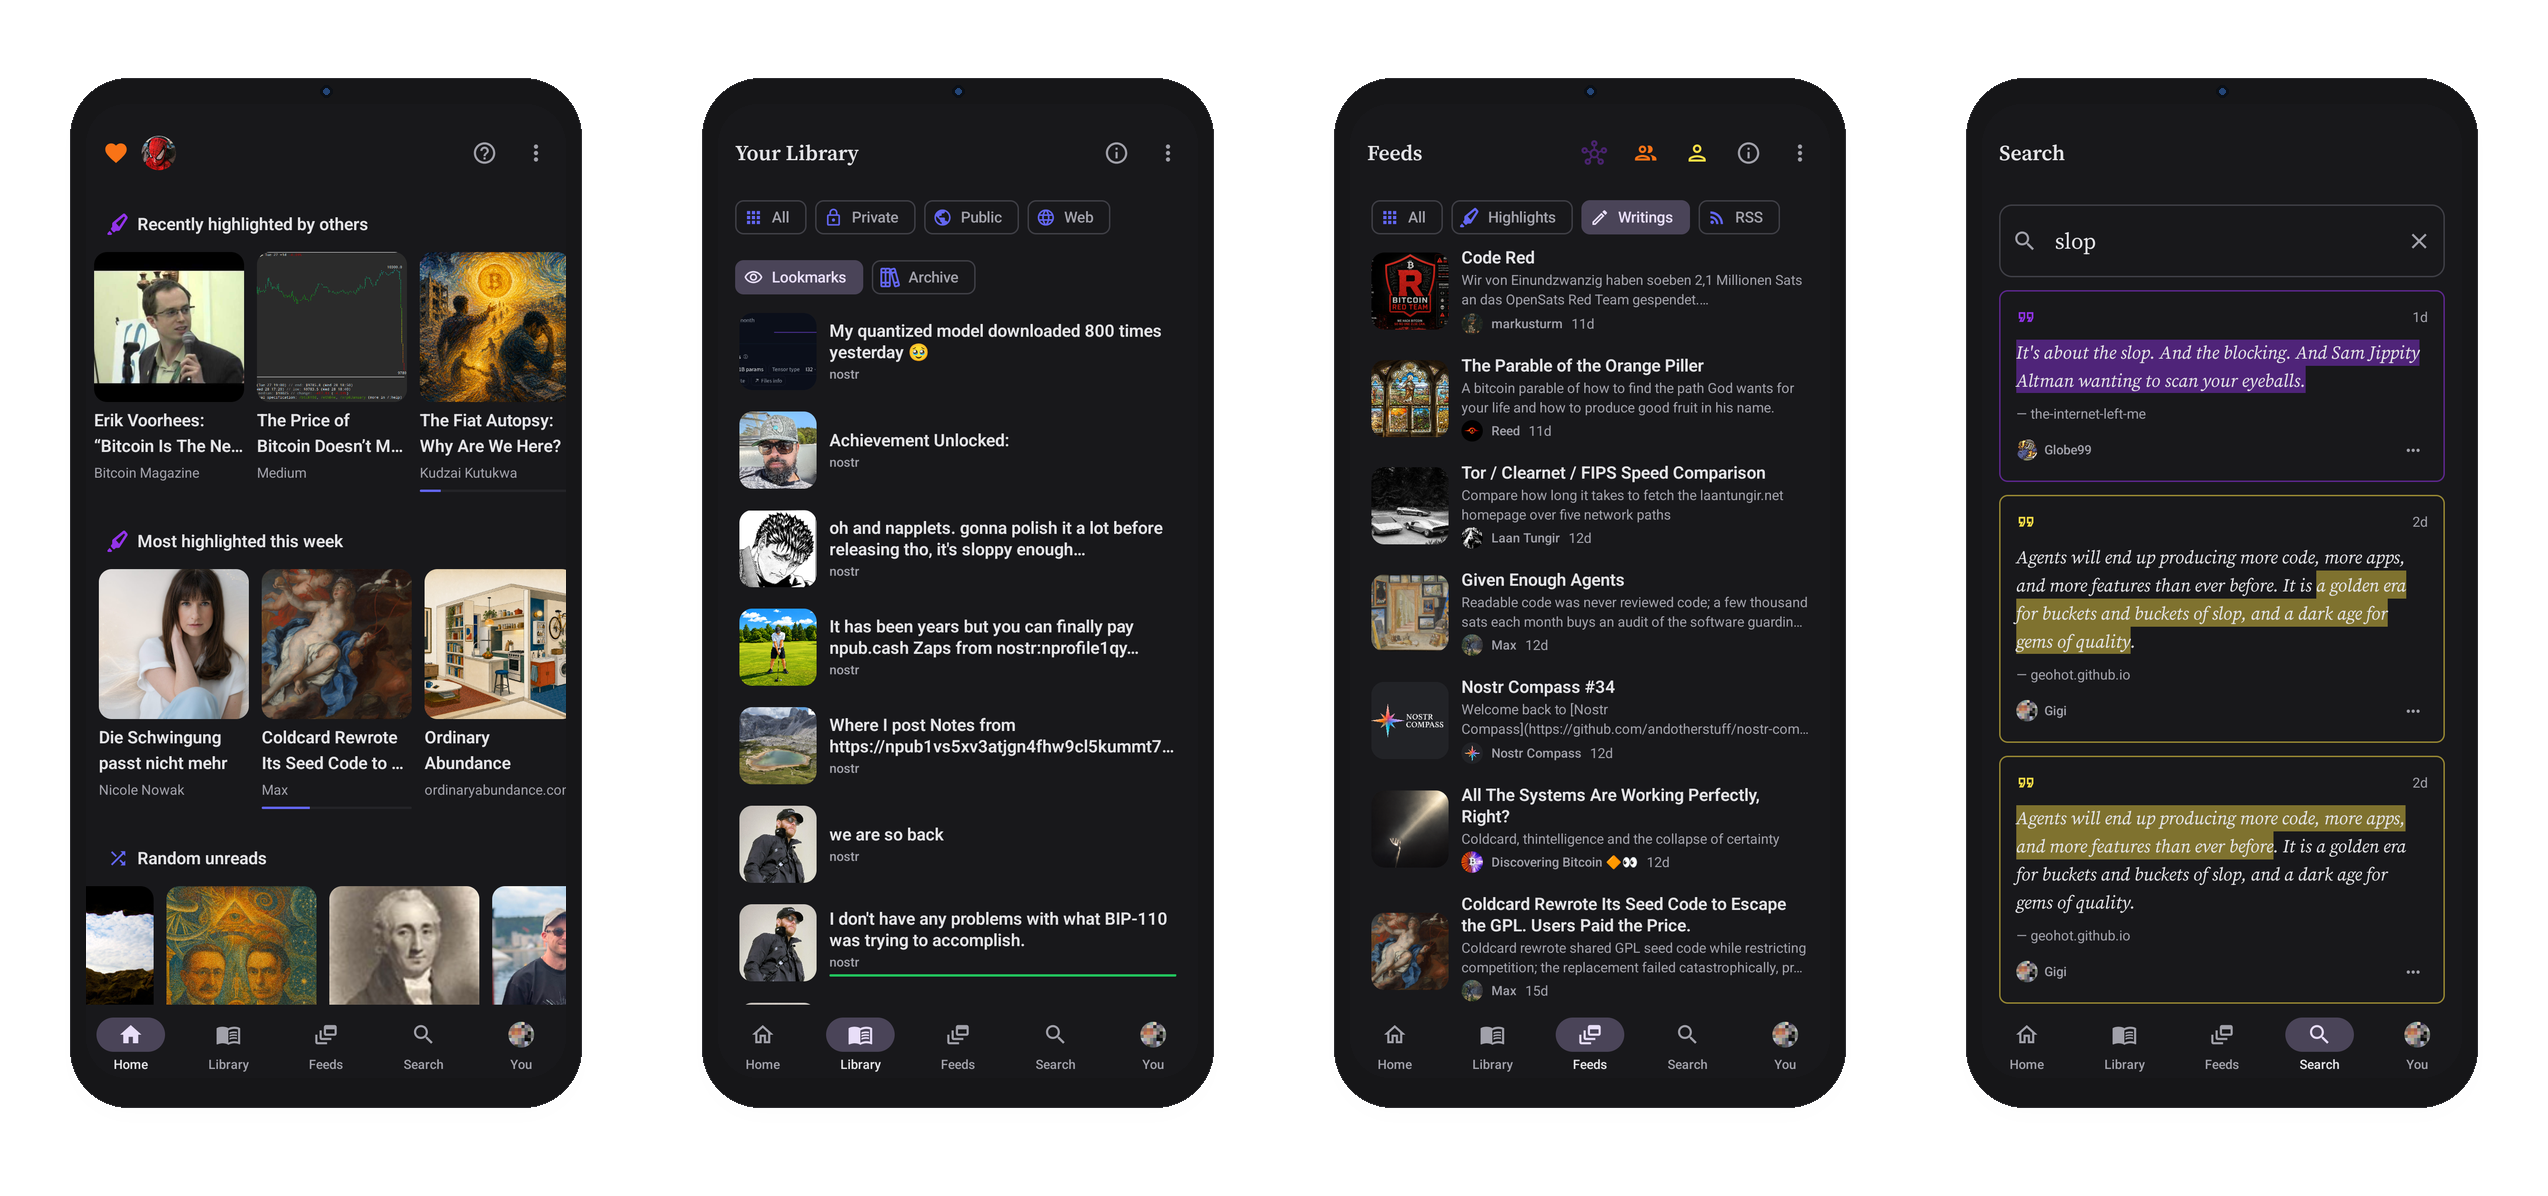
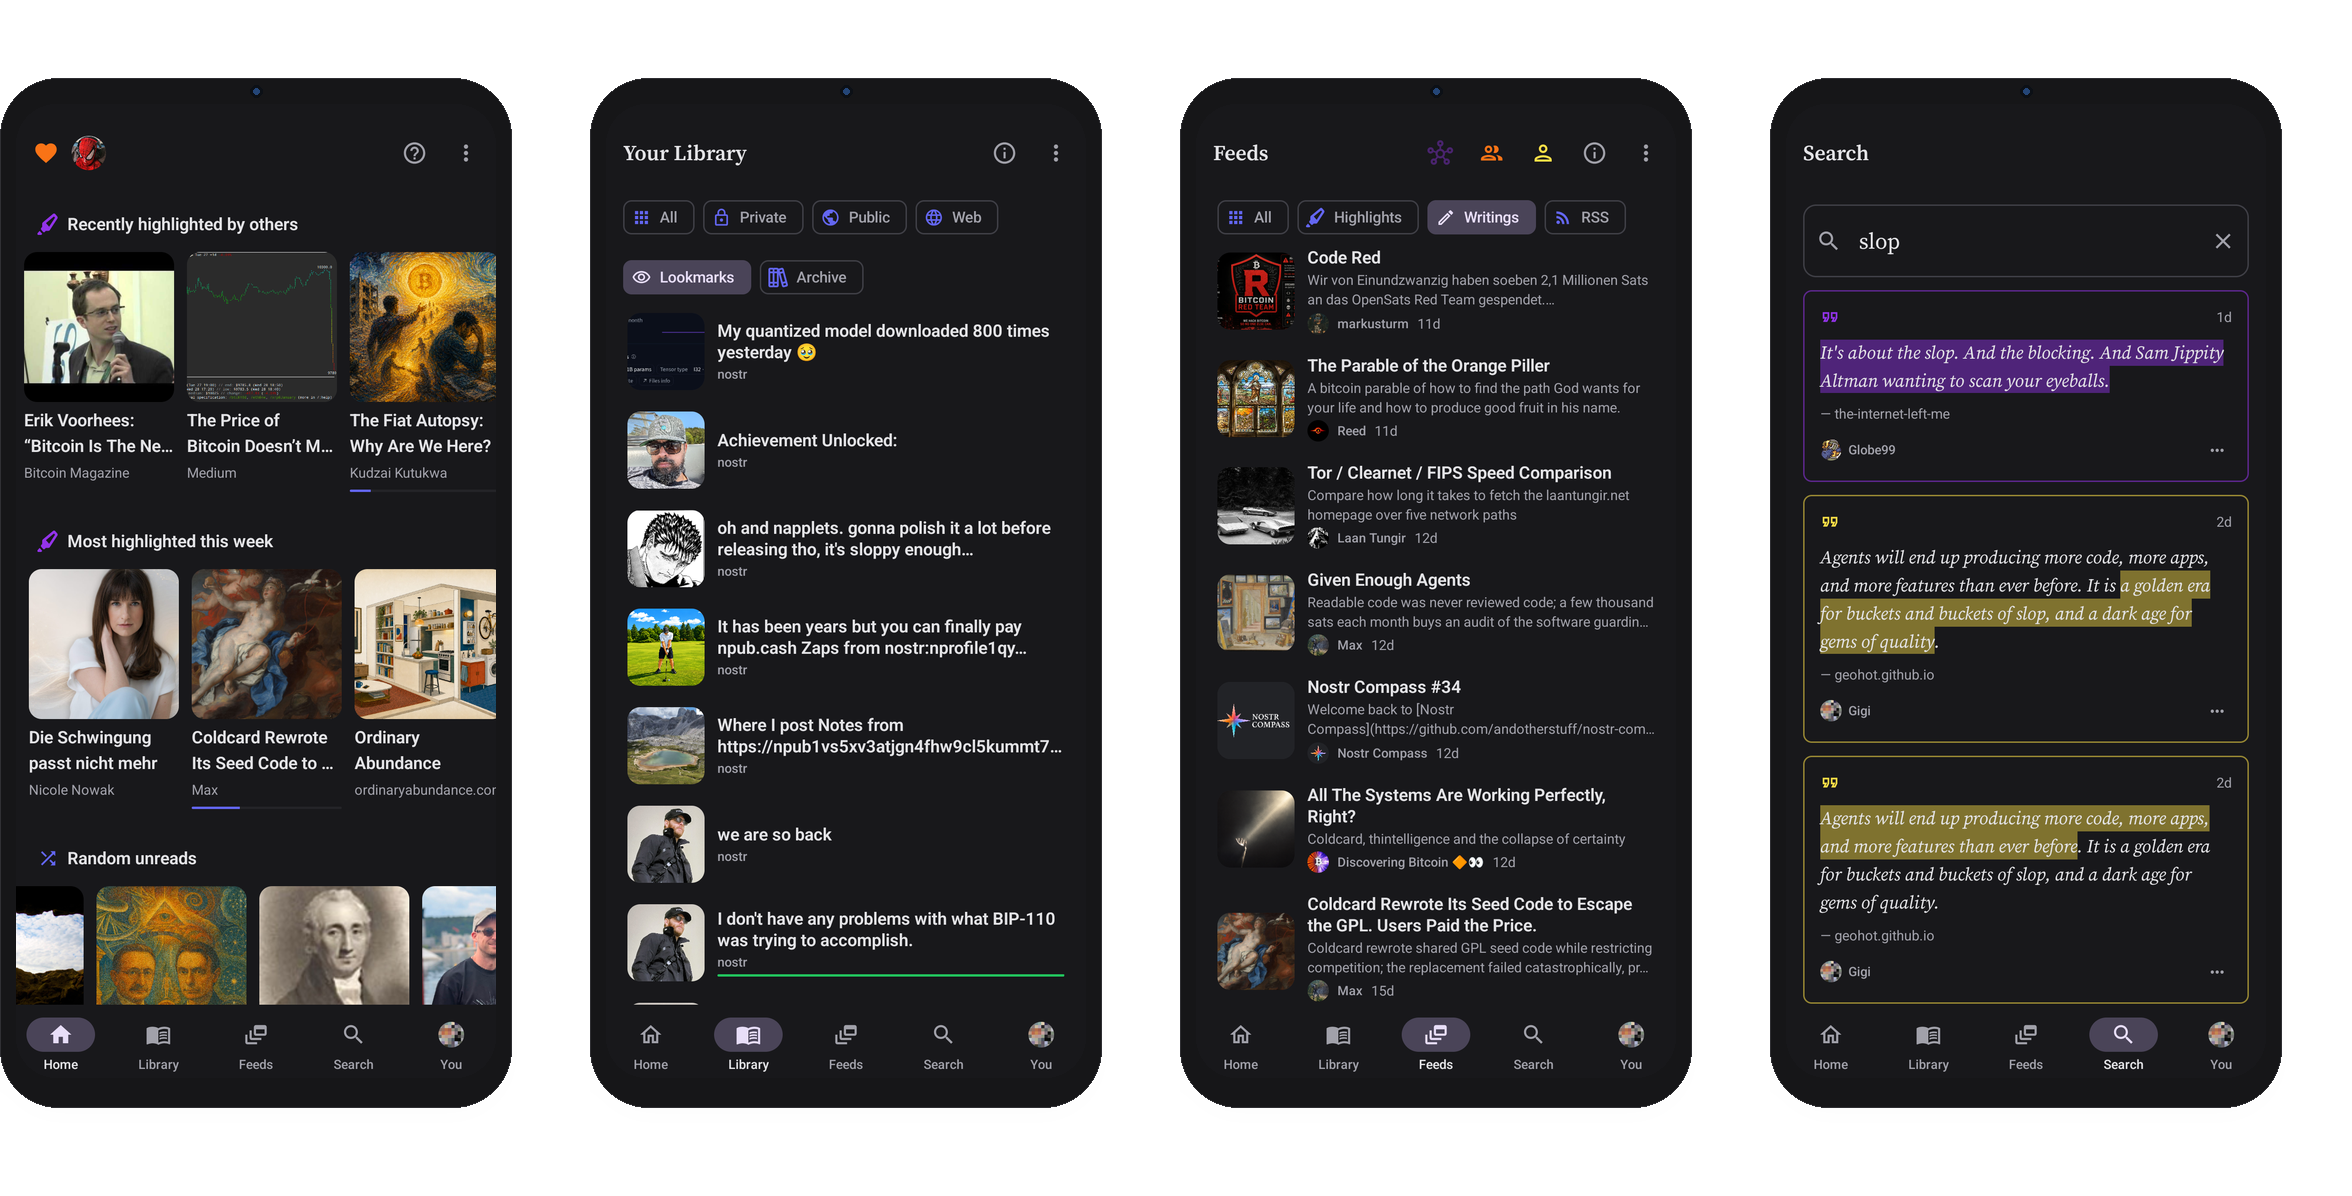
fix(blog): flush Boris phone strips to the text edge

Changed region(s): [[0.0, 0.0619, 0.9622, 0.9281], [0.9311, 0.1856, 0.9622, 0.2166]]

diff --git a/_includes/image.html b/_includes/image.html
@@ -8,11 +8,11 @@
 {% endif %}
 {% capture folderPath %}/assets/images/{{ imageCategory }}/{% if include.otherPost %}{{ include.otherPost }}{% else %}{{ thisPost }}{% endif %}{% endcapture %}
 {% capture imagePath %}{% if include.path %}{{ include.path }}{% else %}{{ folderPath }}/{{ include.name }}{% endif %}{% endcapture %}
-<figure>
+<figure{% if include.align == "left" %} style="text-align:left"{% endif %}>
 {% if include.link %}
   <a href="{{ include.link }}">
 {% endif %}
-  <img src="{{ imagePath | replace: '//', '/' | absolute_url }}" {% if include.alt %} alt="{{ include.alt }}" {% endif %} {% if include.width %} width="{{ include.width }}" {% endif %}/>
+  <img src="{{ imagePath | replace: '//', '/' | absolute_url }}" {% if include.alt %} alt="{{ include.alt }}" {% endif %} {% if include.width %} width="{{ include.width }}" {% endif %}{% if include.align == "left" %} style="display:block"{% endif %}/>
 {% if include.link %}
   </a>
 {% endif %}
